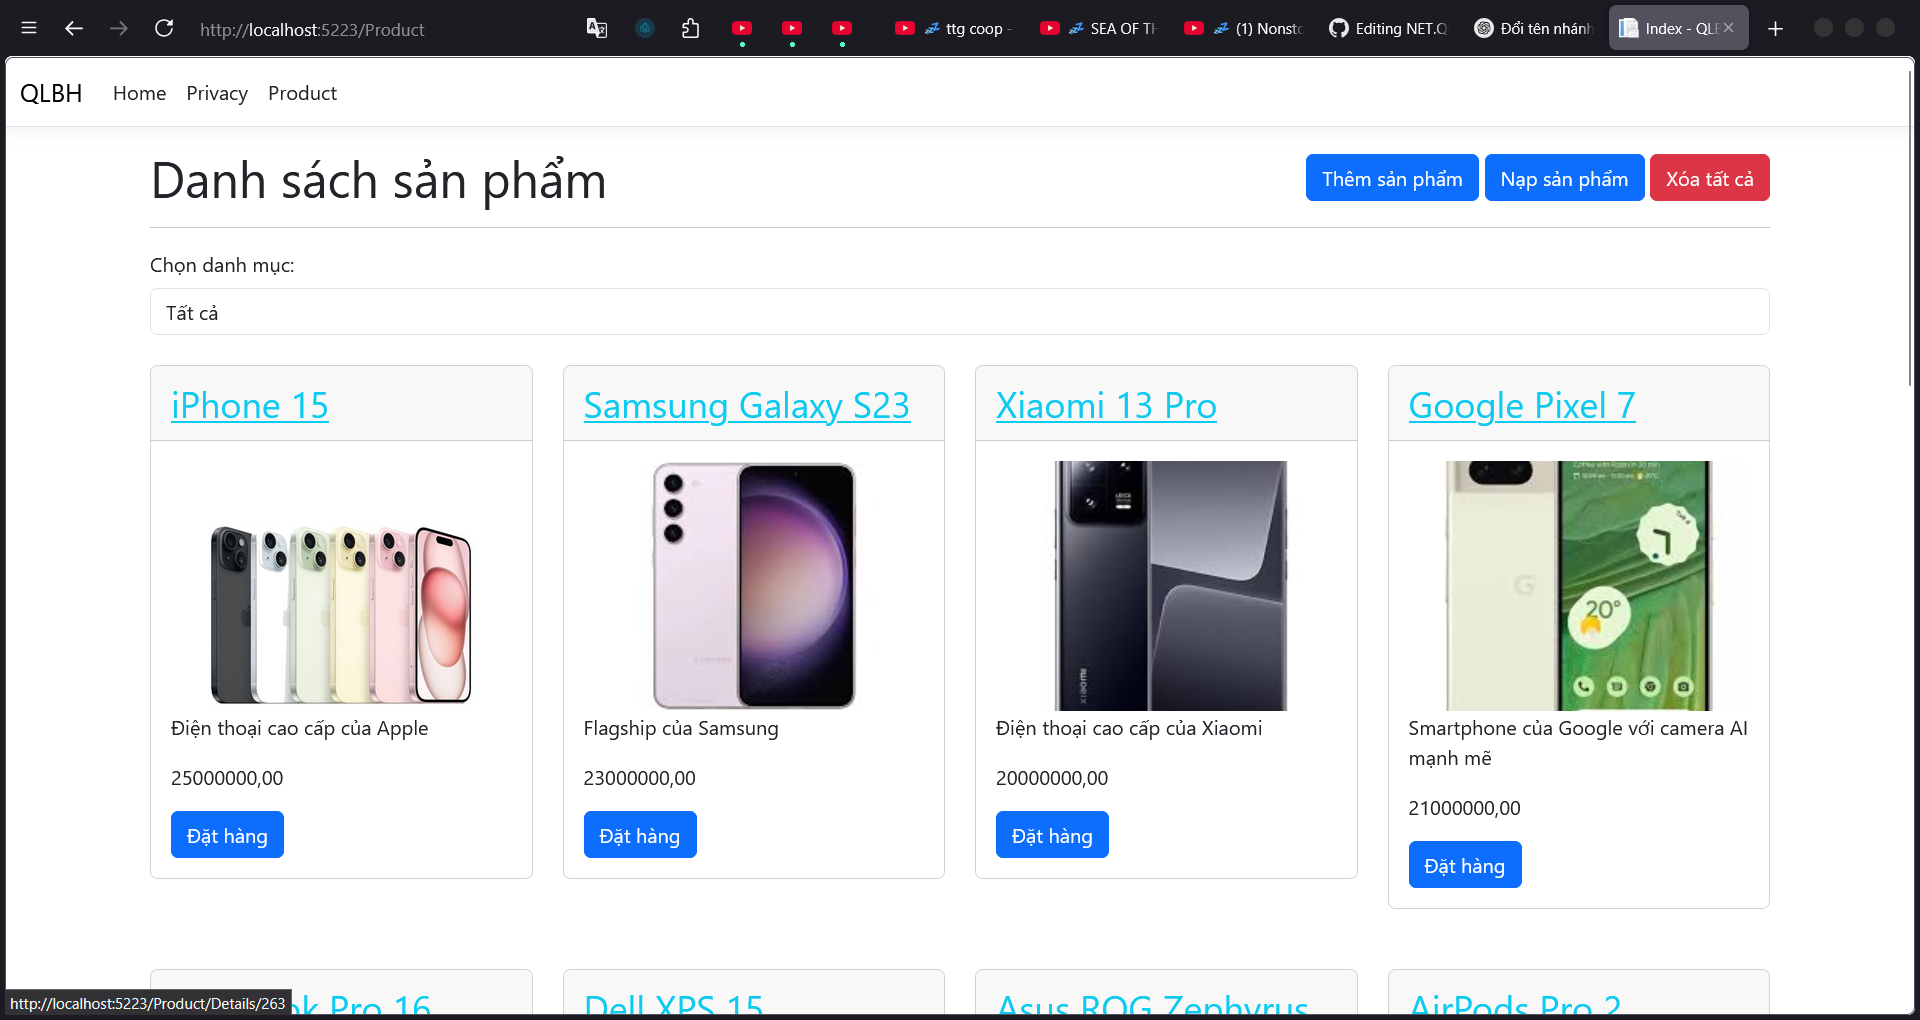
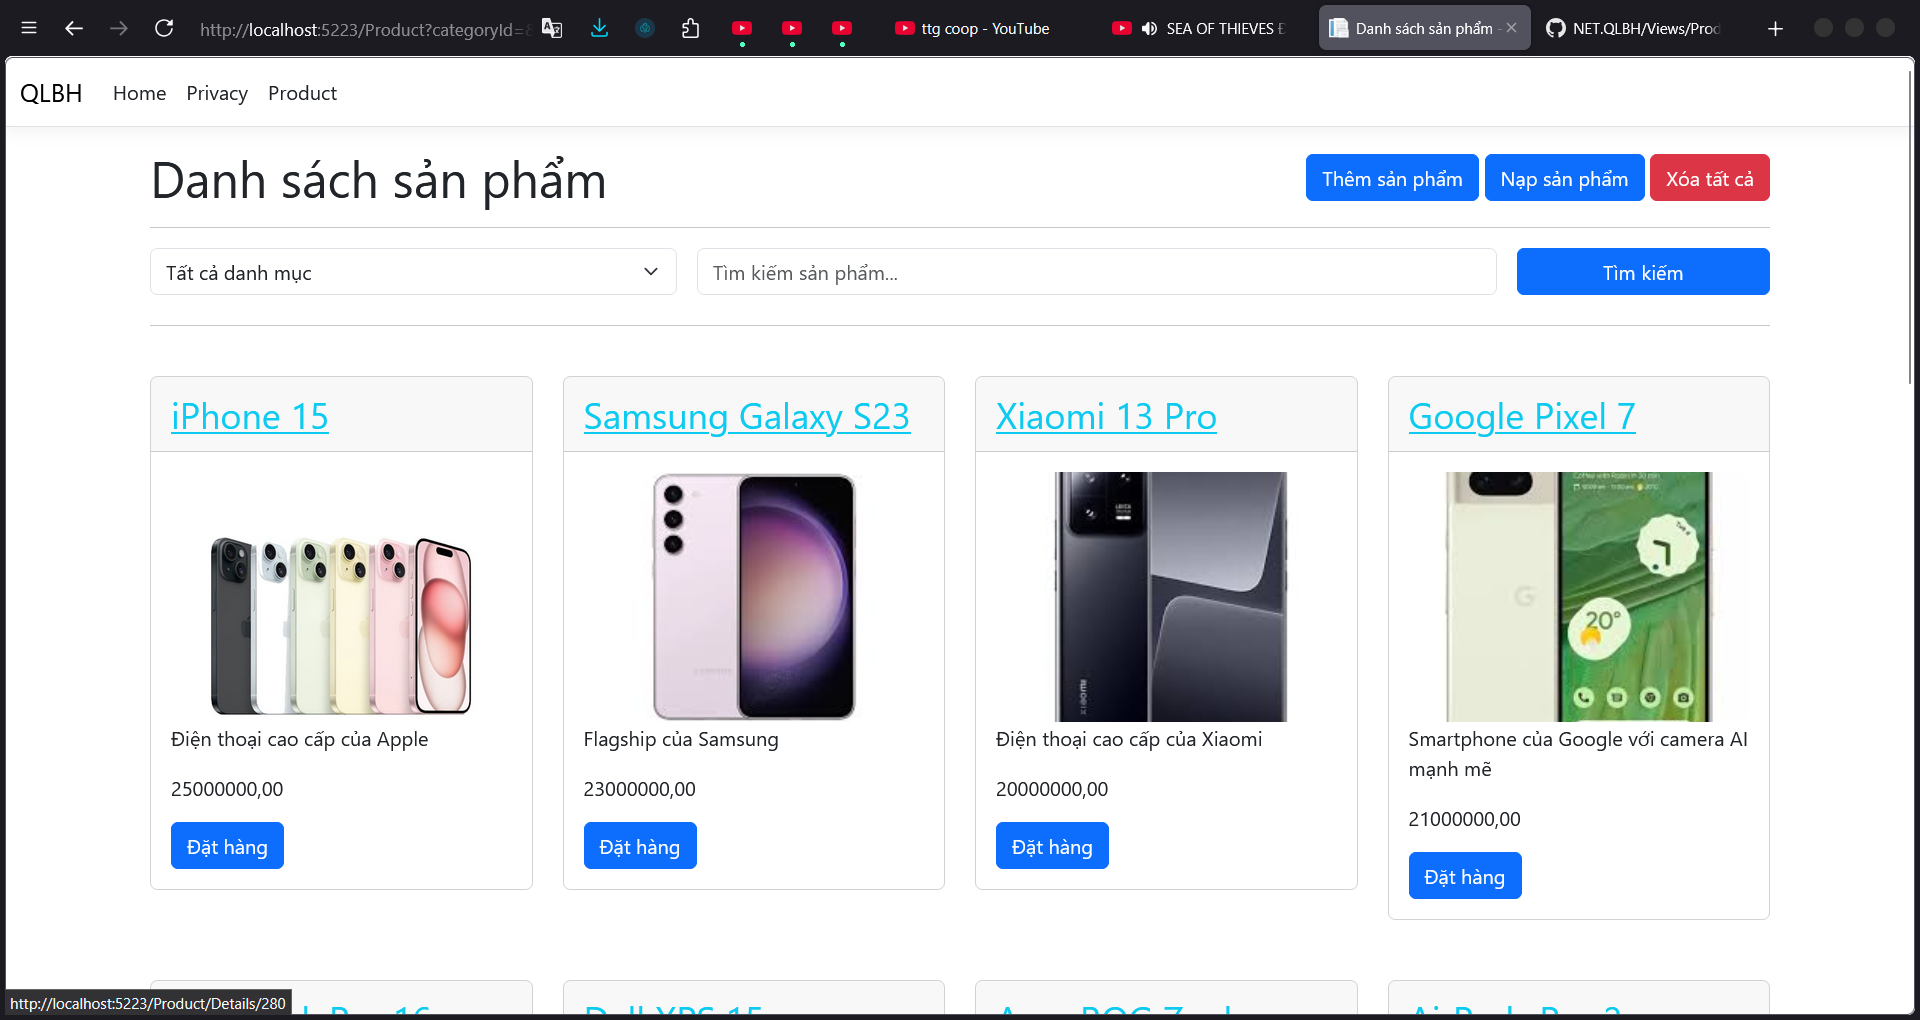
update

diff --git a/Controllers/ProductController.cs b/Controllers/ProductController.cs
@@ -22,17 +22,23 @@ namespace QLBH.Controllers
         }
 
         // GET: Product
-        public async Task<IActionResult> Index(int? categoryId)
+        public async Task<IActionResult> Index(string searchString, int? categoryId)
         {
-            ViewData["CategoryId"] = new SelectList(_context.Categories, "Id", "Name", categoryId);
+            var products = _context.Products.AsQueryable();
 
-            var products = _context.Products.Include(p => p.Category).AsQueryable();
             if (categoryId.HasValue)
             {
-                products = products.Where(p => p.CategoryId == categoryId);
+                products = products.Where(p => p.CategoryId == categoryId.Value);
             }
 
-            return View(await products.ToListAsync());
+            if (!string.IsNullOrEmpty(searchString))
+            {
+                products = products.Where(p => p.Name.Contains(searchString));
+            }
+
+            var productList = await products.ToListAsync();
+            ViewBag.CategoryId = new SelectList(_context.Categories, "Id", "Name", categoryId);
+            return View(productList);
         }
 
         // GET: Product/Details/5
